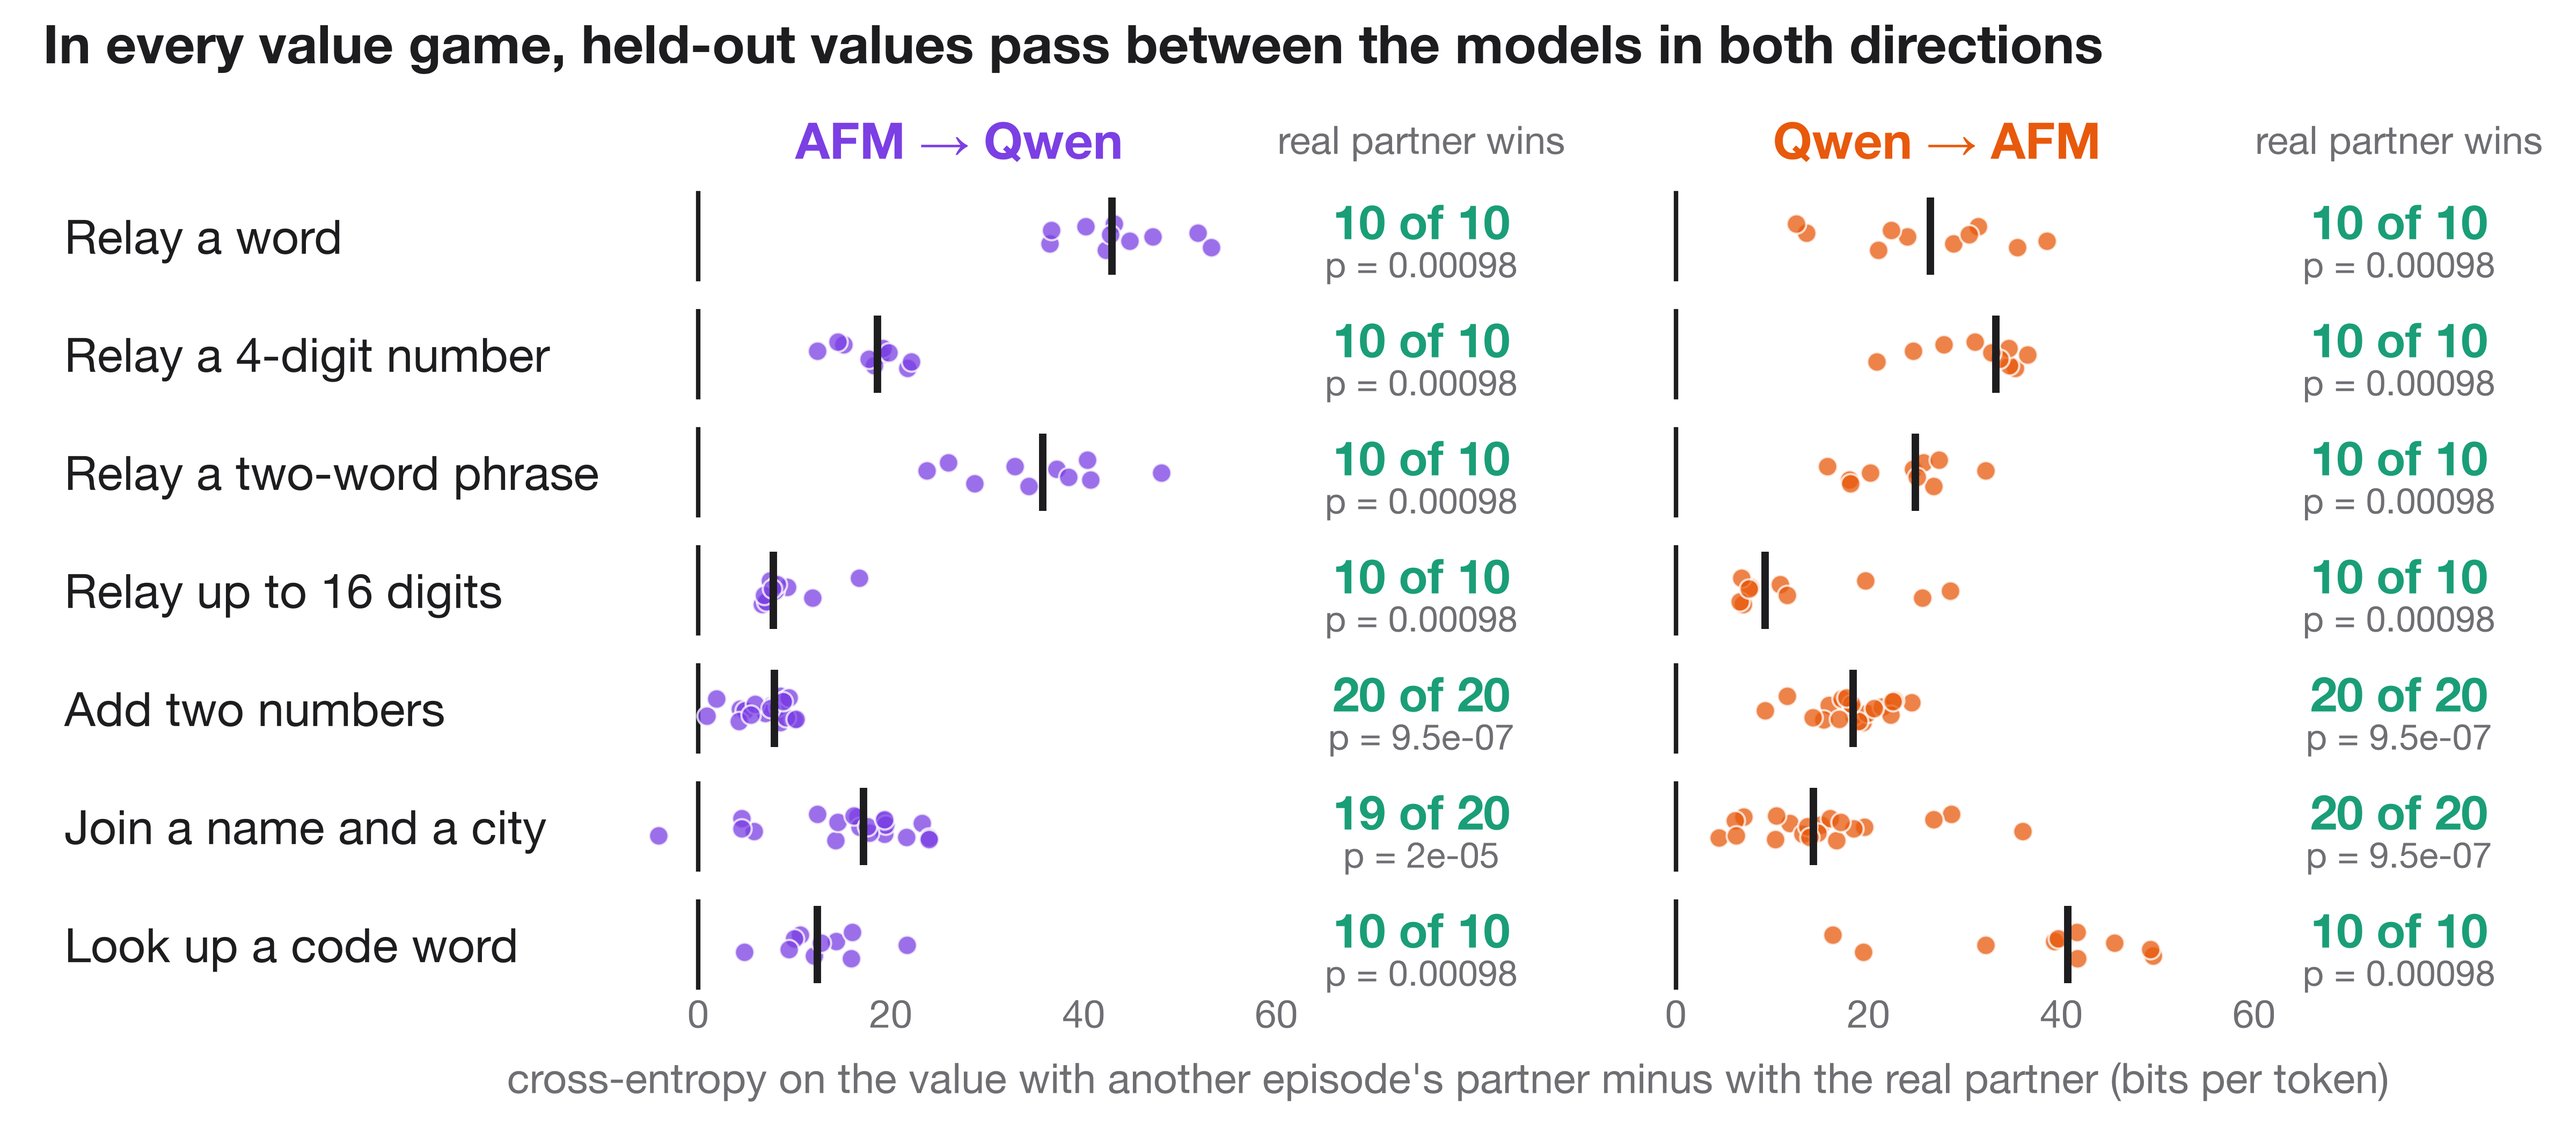
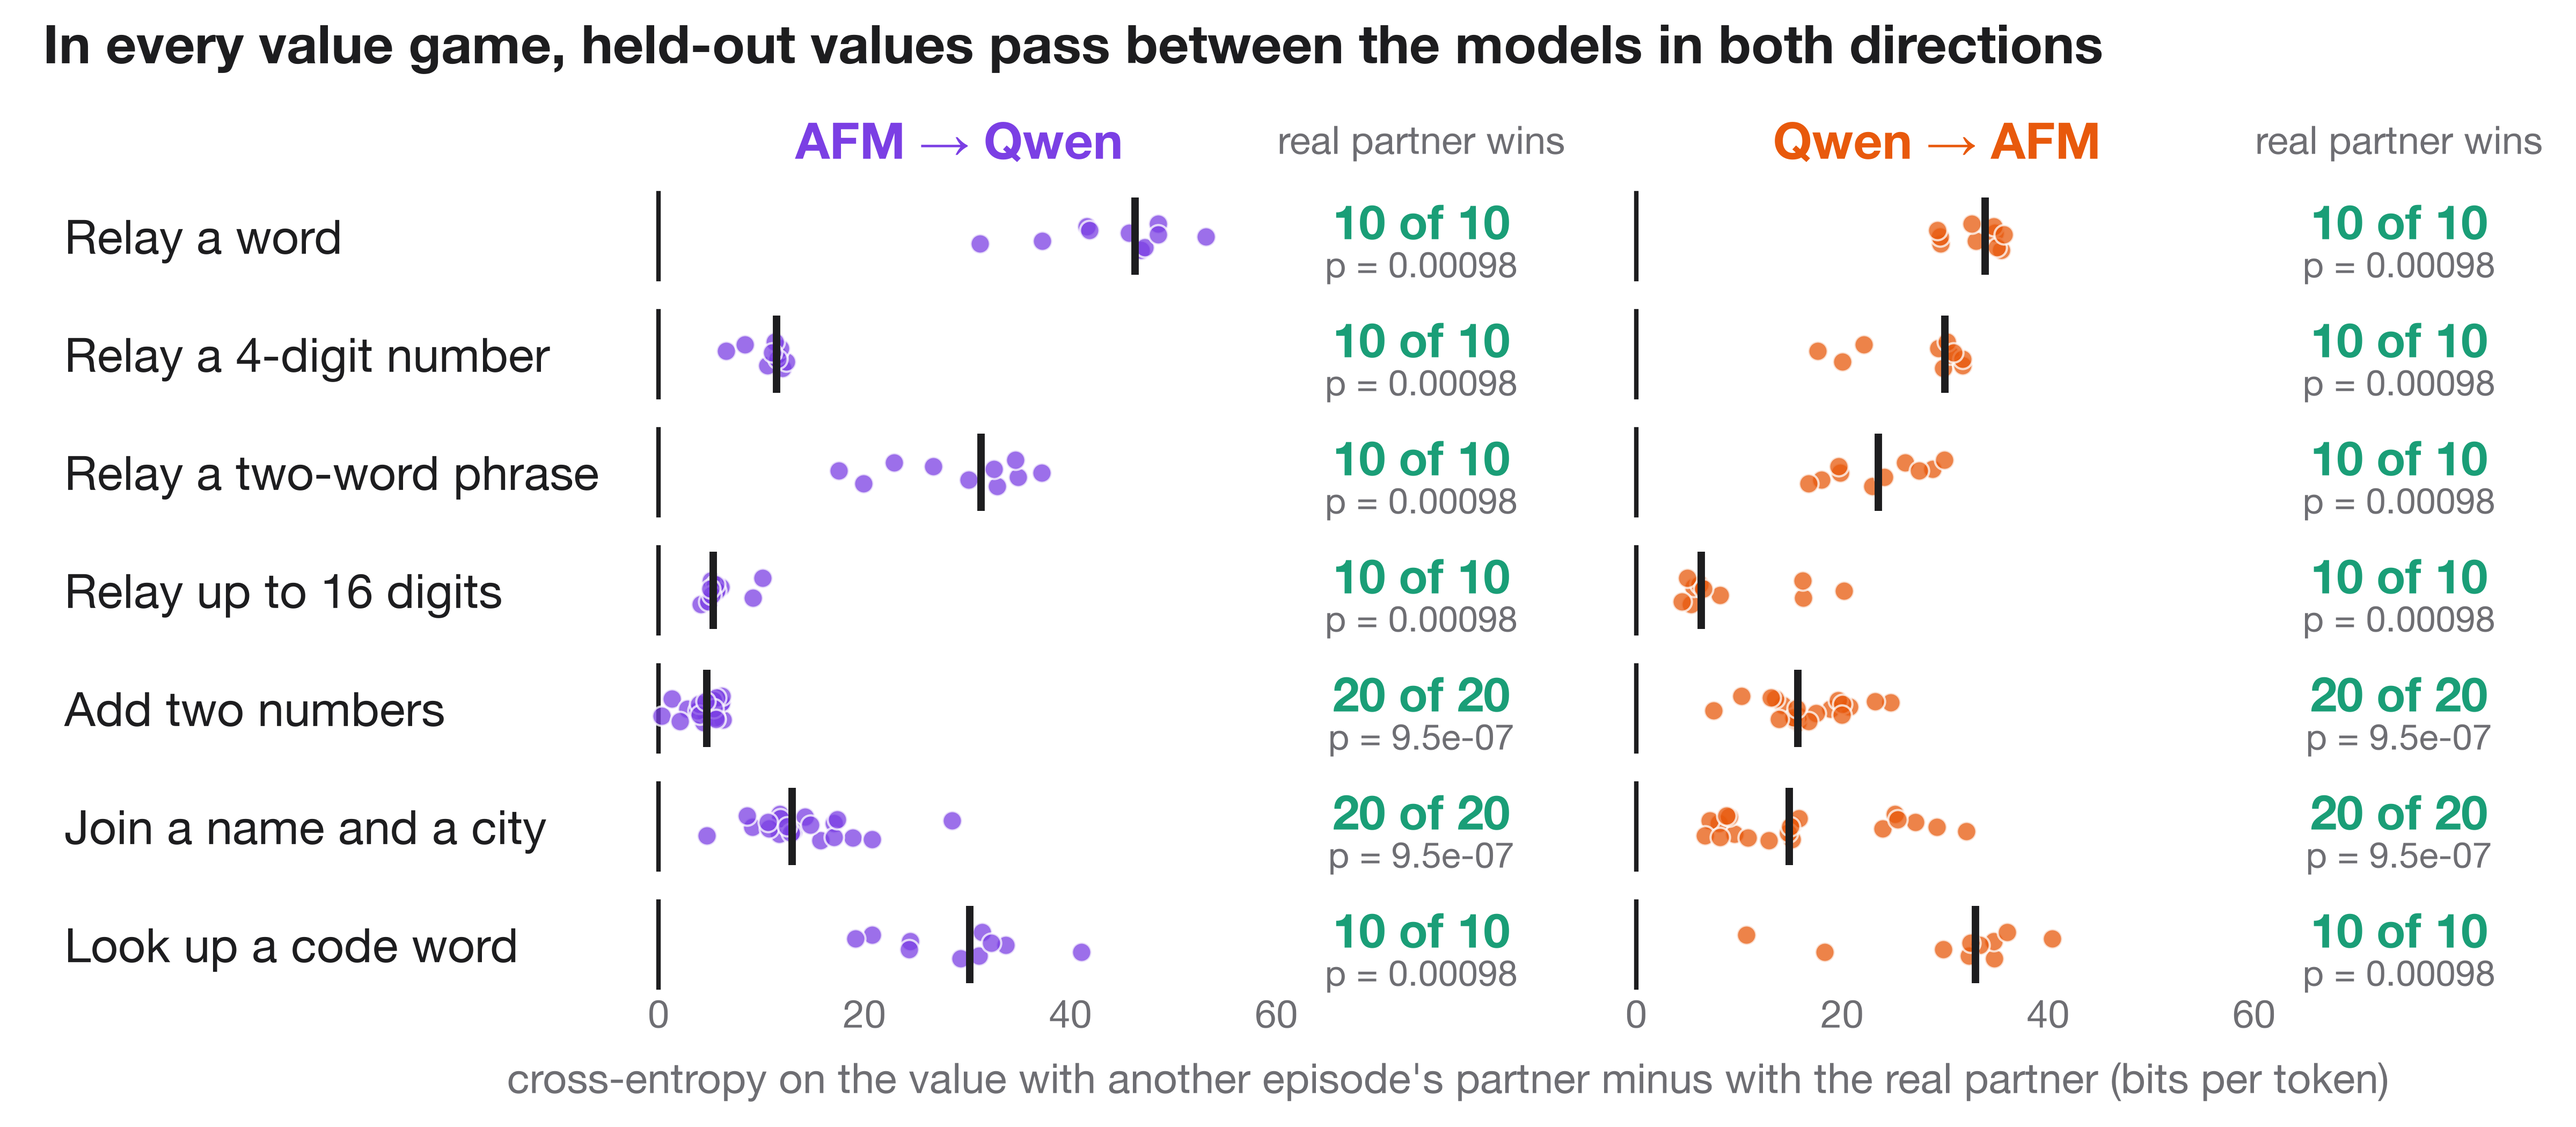
Headline from the full training mix: 180 of 180 held-out values, shared reading 407 of 456
magic-nl20 at step 800 of its full mix (shared reading 0.35, dialogue 0.15, anchors 0.1, shared pen 0.05, play,
silent rounds on half the episodes), evaluated by the new evaluation worker (payload_ctl.py --n 20 --coread): the real
partner wins all 180 held-out value episodes, every game and direction at p < 0.001 (numbers and digit strings with
digit sum 3 mod 7 never used as values in training), and 407 of 456 shared-reading episodes (p = 1e-71; median positive
in 34 of 34 game-receiver groups; play conversations 35/36). figures/transfer.png is this table.

diff --git a/README.md b/README.md
@@ -5,15 +5,17 @@ between their hidden states. At 8 depths, each model reads the other's hidden st
 both directions, inside one joint forward pass. No tokens cross the link. Each model still writes ordinary text, and in
 dialogue games each reads the other's words as a user message, as in a normal chat.
 
-**Result.** After a warm-up on seven value games, the link passes held-out words, 4-digit numbers, two-word phrases,
-digit strings, sums, name–city pairs and code-word lookups in both directions. After 900 warm-up steps, the
-receiver's cross-entropy on the value is lower with its real partner than with the partner of another episode in 179 of
-180 held-out episodes, and every game passes in both directions at p < 0.05 (figure). No held-out value is ever used as
-a value in training: words, phrases, names, cities and code words come from disjoint pools, sums are 50–99 (training
-0–49), and numbers and digit strings have a digit sum of 3 modulo 7 (training: any other). With the full
-training mix the models also read each other's texts through the link: in shared-reading games, the reader's mean
-cross-entropy on the answer over held-out episodes is lower with its real partner than with a shuffled one in 31 of 32
-game–receiver groups (16 games, step 600).
+**Result.** With the full training mix (shared reading, play, dialogue, silent rounds and the shared pen alongside the
+value games), the link passes held-out words, 4-digit numbers, two-word phrases, digit strings, sums, name–city pairs and
+code-word lookups in both directions. At step 800 of nl20's full mix, the receiver's cross-entropy on the value is lower
+with its real partner than with the partner of another episode in all 180 held-out episodes, and every game passes in
+both directions at p < 0.001 (figure). No held-out value is ever used as a value in training: words, phrases, names,
+cities and code words come from disjoint pools, sums are 50–99 (training 0–49), and numbers and digit strings have a
+digit sum of 3 modulo 7 (training: any other). In the same checkpoint the models read each other's texts through the
+link: in shared-reading games, the reader's cross-entropy on its answer is lower with its real partner than with a
+shuffled one in 407 of 456 held-out episodes (p = 1e-71), with a positive median in all 34 game–receiver groups. The link
+also passes values in games it never trained on: after a warm-up without them, digit strings pass 10/10 in both
+directions and code-word lookups 9/10 into Qwen (p = 0.011) and 8/10 into AFM (p = 0.055) (nl21).
 
 ![Held-out values passing between the models](figures/transfer.png)
 
@@ -134,7 +136,7 @@ training log (`log.json`), held-out tables at every evaluation step (`payload_st
 | nl16 | Warm-up on all seven value games only | 178 of 180 held-out episodes; passes under dialogue, silent rounds and the shared pen without training on them (`turnbench.txt`) |
 | nl18 | Full recipe with play games, silent rounds and micro-batches | Shared reading positive in 32 of 32 game–receiver groups at step 1200 |
 | nl19 | nl18 with distillation and the shared pen | Stopped at step 500; shared reading as nl18 |
-| nl20 | 900-step warm-up with held-out numbers, then the full mix | Warm-up: 179 of 180 (`results/magic-nl20/results/payload_warm.json`); full mix running |
+| nl20 | 900-step warm-up with held-out numbers, then the full mix | Warm-up: 179 of 180 (`results/magic-nl20/results/payload_warm.json`); full mix step 800: 180 of 180, shared reading 407 of 456 (`payload_mix_step800.json`); running to step 1,320 |
 | nl21 | Lookup, digit strings, three shared-reading tasks and the rhyme game never trained | Warm-up (step 600, the five other value games): never-trained digit strings pass both ways (10/10 each), never-trained lookup passes into Qwen (9/10, p = .011) and nearly into AFM (8/10, p = .055); full mix running |
 
 ## Earlier designs
